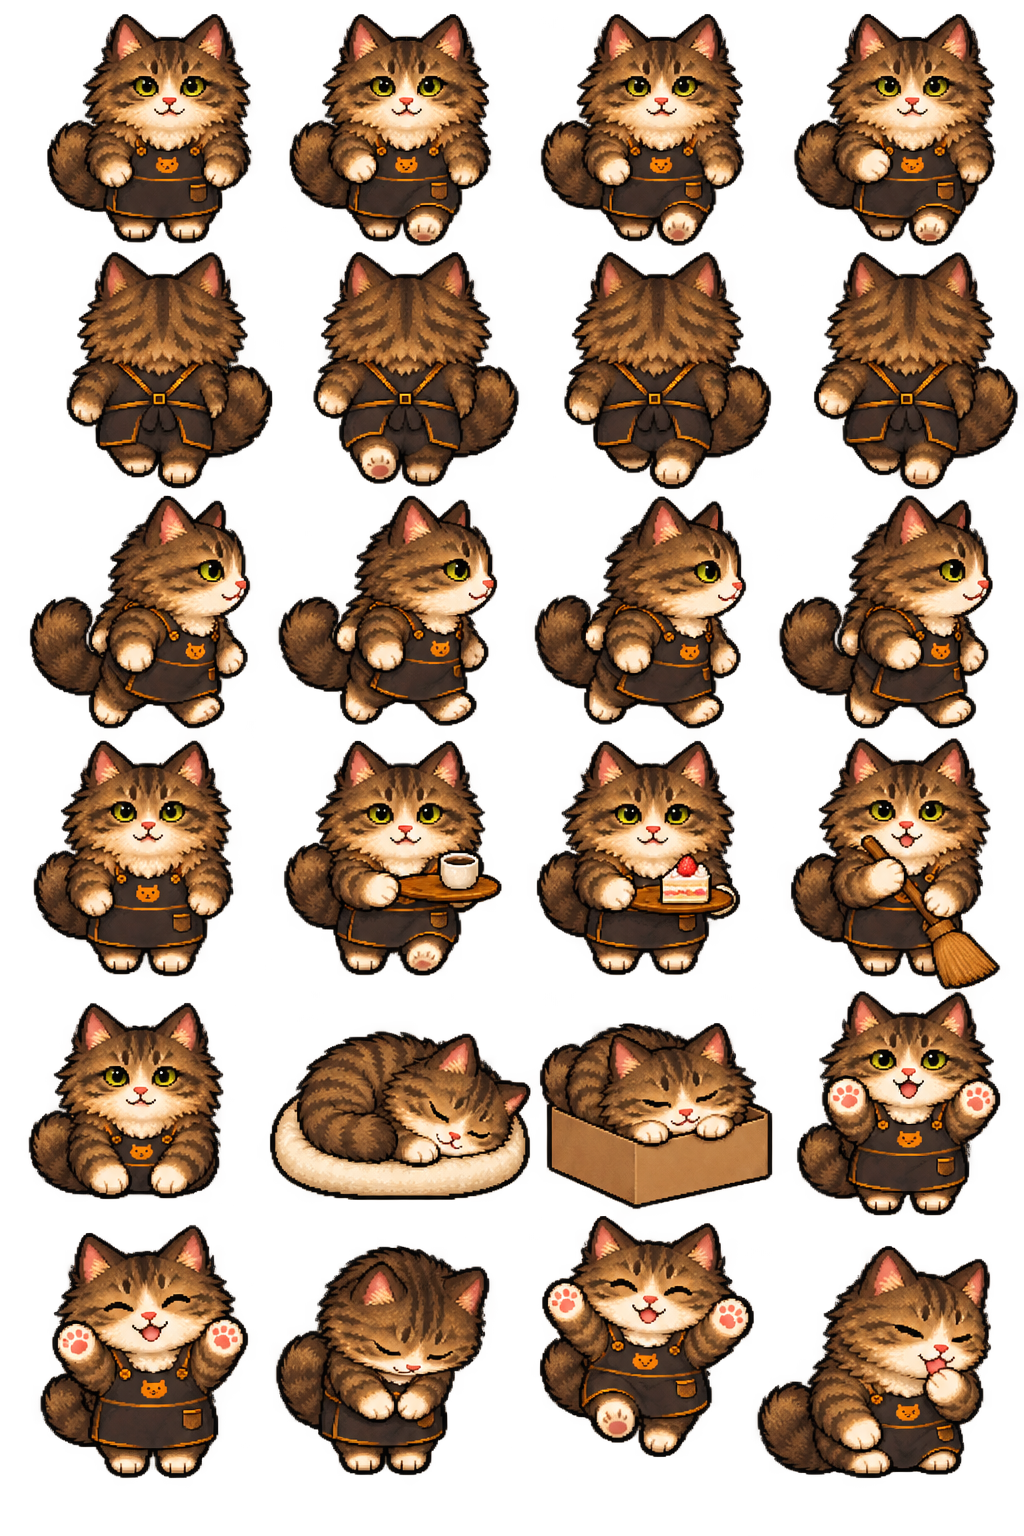
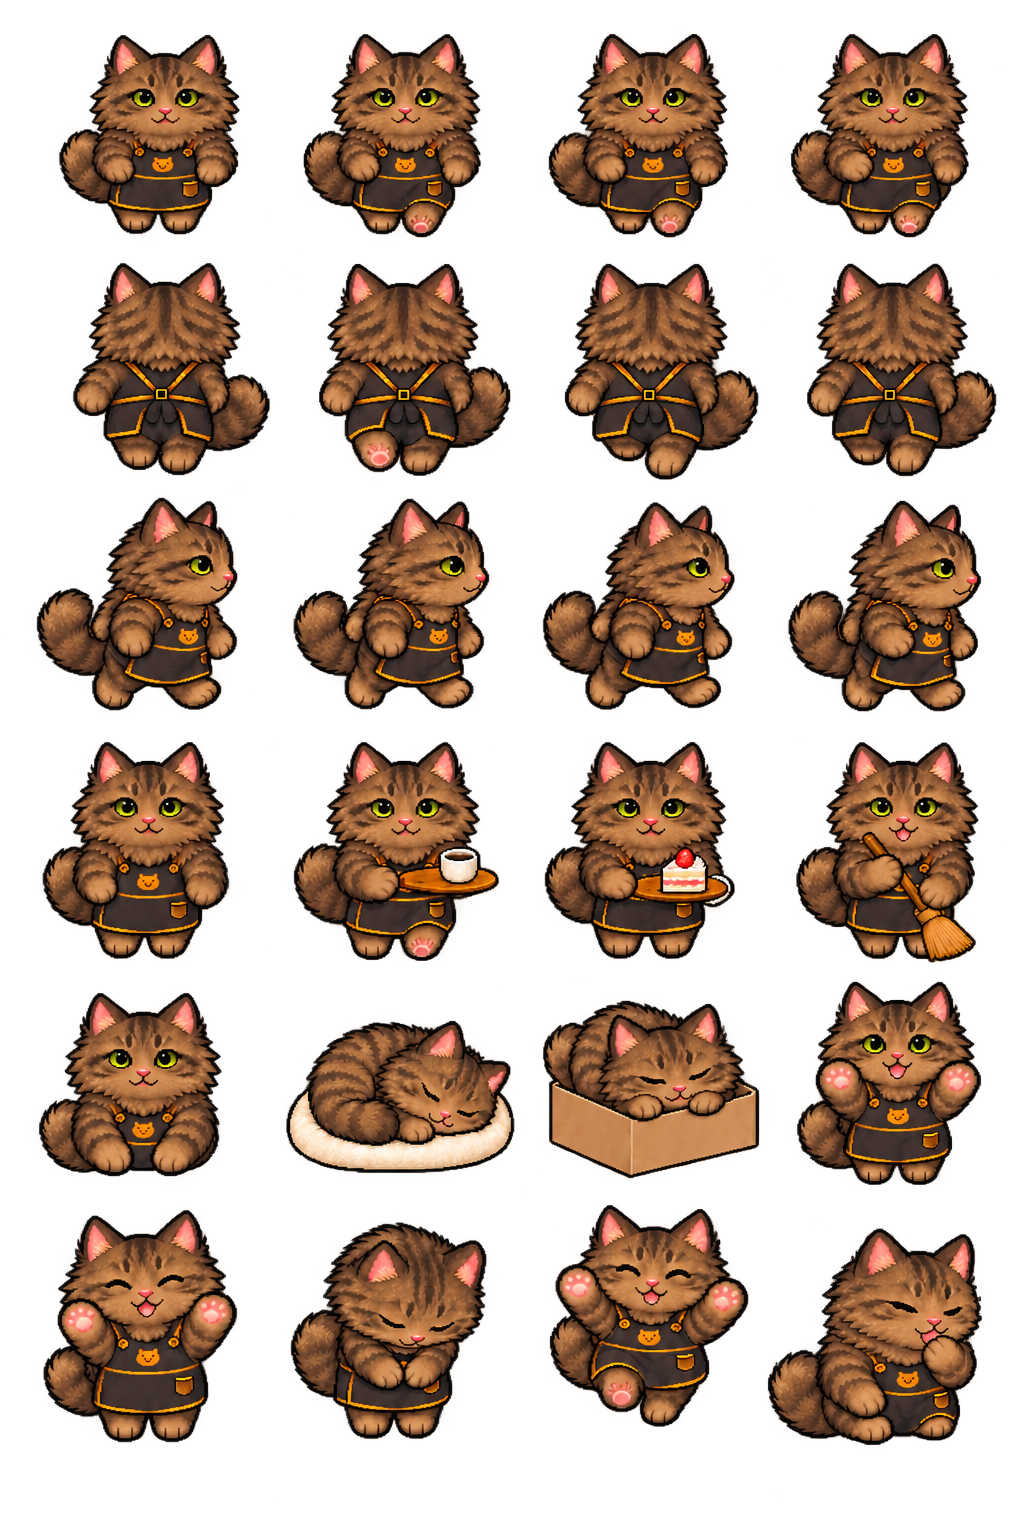
Correct Ponta to all-brown fur across every body motion

diff --git a/cat-motions.js b/cat-motions.js
@@ -1,7 +1,7 @@
 /* Coordinated Grio/Ponta artwork: every body pose shares one atlas and scale. */
 (function () {
   'use strict';
-  const meta = {"grio":{"frontWalk0":{"bounds":[77,47,158,209],"axis":166},"frontWalk1":{"bounds":[311,48,161,208],"axis":402.5},"frontWalk2":{"bounds":[540,47,160,209],"axis":630},"frontWalk3":{"bounds":[775,47,157,210],"axis":859.5},"backWalk0":{"bounds":[79,271,164,214],"axis":164.5},"backWalk1":{"bounds":[323,270,152,214],"axis":401.5},"backWalk2":{"bounds":[556,271,148,215],"axis":631.5},"backWalk3":{"bounds":[786,270,162,215],"axis":866},"walk0":{"bounds":[66,511,190,208],"axis":195.5},"walk1":{"bounds":[304,512,188,206],"axis":429.5},"walk2":{"bounds":[546,514,176,206],"axis":658.5},"walk3":{"bounds":[773,514,177,207],"axis":888.5},"idle":{"bounds":[66,751,164,217],"axis":156},"serve":{"bounds":[304,749,188,217],"axis":401},"coffee":{"bounds":[553,752,161,218],"axis":644},"clean":{"bounds":[778,751,185,227],"axis":870.5},"sit":{"bounds":[71,1008,159,181],"axis":157.5},"sleepbag":{"bounds":[270,1029,237,162],"axis":388},"box":{"bounds":[546,1020,202,178],"axis":646.5},"surprise":{"bounds":[789,998,170,213],"axis":877.5},"joy":{"bounds":[67,1228,175,233],"axis":158.5},"bow":{"bounds":[308,1253,179,208],"axis":410.5},"jump":{"bounds":[549,1219,180,227],"axis":637},"groom":{"bounds":[766,1259,185,202],"axis":881}},"ponta":{"frontWalk0":{"bounds":[45,12,208,233],"axis":166},"frontWalk1":{"bounds":[288,12,205,236],"axis":405},"frontWalk2":{"bounds":[539,12,207,236],"axis":659.5},"frontWalk3":{"bounds":[792,12,205,236],"axis":910},"backWalk0":{"bounds":[65,250,209,240],"axis":162},"backWalk1":{"bounds":[312,250,209,238],"axis":406},"backWalk2":{"bounds":[562,250,211,241],"axis":657},"backWalk3":{"bounds":[812,250,208,241],"axis":909},"walk0":{"bounds":[28,494,224,236],"axis":178.5},"walk1":{"bounds":[277,494,222,234],"axis":425},"walk2":{"bounds":[533,495,215,235],"axis":674.5},"walk3":{"bounds":[778,494,217,236],"axis":920.5},"idle":{"bounds":[32,739,203,239],"axis":146},"serve":{"bounds":[282,739,221,239],"axis":400},"cake":{"bounds":[535,739,207,238],"axis":647.5},"clean":{"bounds":[789,736,213,255],"axis":904},"sit":{"bounds":[27,1001,198,200],"axis":138},"sleepbag":{"bounds":[268,1029,264,173],"axis":399.5},"box":{"bounds":[538,1021,236,190],"axis":655.5},"surprise":{"bounds":[795,989,207,228],"axis":906},"joy":{"bounds":[39,1223,211,257],"axis":148.5},"bow":{"bounds":[274,1244,217,233],"axis":392},"jump":{"bounds":[538,1214,218,245],"axis":647},"groom":{"bounds":[756,1244,237,236],"axis":906.5}}};
+  const meta = {"grio":{"frontWalk0":{"bounds":[77,47,158,209],"axis":166},"frontWalk1":{"bounds":[311,48,161,208],"axis":402.5},"frontWalk2":{"bounds":[540,47,160,209],"axis":630},"frontWalk3":{"bounds":[775,47,157,210],"axis":859.5},"backWalk0":{"bounds":[79,271,164,214],"axis":164.5},"backWalk1":{"bounds":[323,270,152,214],"axis":401.5},"backWalk2":{"bounds":[556,271,148,215],"axis":631.5},"backWalk3":{"bounds":[786,270,162,215],"axis":866},"walk0":{"bounds":[66,511,190,208],"axis":195.5},"walk1":{"bounds":[304,512,188,206],"axis":429.5},"walk2":{"bounds":[546,514,176,206],"axis":658.5},"walk3":{"bounds":[773,514,177,207],"axis":888.5},"idle":{"bounds":[66,751,164,217],"axis":156},"serve":{"bounds":[304,749,188,217],"axis":401},"coffee":{"bounds":[553,752,161,218],"axis":644},"clean":{"bounds":[778,751,185,227],"axis":870.5},"sit":{"bounds":[71,1008,159,181],"axis":157.5},"sleepbag":{"bounds":[270,1029,237,162],"axis":388},"box":{"bounds":[546,1020,202,178],"axis":646.5},"surprise":{"bounds":[789,998,170,213],"axis":877.5},"joy":{"bounds":[67,1228,175,233],"axis":158.5},"bow":{"bounds":[308,1253,179,208],"axis":410.5},"jump":{"bounds":[549,1219,180,227],"axis":637},"groom":{"bounds":[766,1259,185,202],"axis":881}},"ponta":{"frontWalk0":{"bounds":[57,33,184,203],"axis":163.5},"frontWalk1":{"bounds":[302,32,181,207],"axis":405},"frontWalk2":{"bounds":[547,32,183,207],"axis":652},"frontWalk3":{"bounds":[789,32,182,207],"axis":892.5},"backWalk0":{"bounds":[71,261,201,216],"axis":164},"backWalk1":{"bounds":[317,262,195,216],"axis":402},"backWalk2":{"bounds":[563,262,197,220],"axis":650.5},"backWalk3":{"bounds":[805,262,193,216],"axis":892},"walk0":{"bounds":[35,496,204,216],"axis":171.5},"walk1":{"bounds":[292,497,199,214],"axis":422.5},"walk2":{"bounds":[541,500,195,212],"axis":669},"walk3":{"bounds":[787,499,196,214],"axis":914.5},"idle":{"bounds":[41,740,190,221],"axis":147},"serve":{"bounds":[292,740,209,223],"axis":402.5},"cake":{"bounds":[543,740,194,221],"axis":648},"clean":{"bounds":[794,740,186,224],"axis":901.5},"sit":{"bounds":[37,991,186,187],"axis":143},"sleepbag":{"bounds":[284,1019,232,156],"axis":399.5},"box":{"bounds":[541,999,220,181],"axis":650.5},"surprise":{"bounds":[795,980,188,207],"axis":895.5},"joy":{"bounds":[42,1208,197,236],"axis":145},"bow":{"bounds":[289,1221,199,220],"axis":404},"jump":{"bounds":[548,1203,202,226],"axis":651},"groom":{"bounds":[766,1227,218,220],"axis":901}}};
   const images = {}, cache = new Map(), width = 128, height = 144;
   const base = document.currentScript?.src || location.href;
   let ready = false;
@@ -9,7 +9,7 @@
     const image = images[pal] = new Image();
     image.onload = resolve;
     image.onerror = () => reject(new Error(pal + ' motion artwork could not be loaded'));
-    image.src = new URL('./cat-motions-' + pal + '.png?v=20261011-uniform', base).href;
+    image.src = new URL('./cat-motions-' + pal + '.png?v=' + (pal === 'ponta' ? '20261011-ponta-brown' : '20261011-uniform'), base).href;
   }))).then(() => {
     ready = true;
     const sprites = {};

diff --git a/animation-preview.html b/animation-preview.html
@@ -1,5 +1,5 @@
 <!doctype html><html lang="ja"><head><meta charset="utf-8"><meta name="viewport" content="width=device-width,initial-scale=1"><title>ぐりおとぽんた｜アニメーション確認</title><style>
-*{box-sizing:border-box}body{margin:0;background:#f7ecdb;color:#51372a;font-family:system-ui,sans-serif}header{padding:20px 16px;background:#7b4d32;color:white}h1{font-size:22px;margin:0}p{margin:8px 0}.wrap{max-width:1000px;margin:auto;padding:16px}.controls{display:flex;gap:12px;align-items:center;flex-wrap:wrap;padding:12px;background:#fff7ec;border-radius:14px;margin-bottom:16px}.grid{display:grid;grid-template-columns:repeat(auto-fit,minmax(160px,1fr));gap:12px}.card{background:#fffaf1;border:2px solid #dfb995;border-radius:16px;padding:12px;text-align:center}.card h2{font-size:16px;margin:0 0 8px}.stage{height:145px;display:flex;align-items:end;justify-content:center;background:linear-gradient(#f3dfc8 72%,#d1a47c 72%);border-radius:10px;overflow:hidden}.stage canvas{width:120px;height:130px;image-rendering:pixelated}label{font-weight:bold}input{accent-color:#a66b45}a{color:#a0552f}small{color:#826a57}</style></head><body><header><h1>🐾 ぐりお・ぽんた アニメーション検査室</h1><p>待機・配膳・調理・掃除・座る・睡眠・毛づくろいと、前後左右の歩行を同じデザインで揃えました。ゲームと同じ大きさで確認できます。会話の表情8種類も並べています。</p></header><main class="wrap"><div class="controls"><label><input type="checkbox" id="play" checked> 再生</label><label>速度 <input id="speed" type="range" min="1" max="12" value="6"></label><label><input id="flip" type="checkbox"> 左右反転</label><small>スプライトの欠け・顔・口・足元をチェック</small></div><div id="grid" class="grid"></div><p><a href="./">← ゲームに戻る</a></p></main><script src="./cat-motions.js?v=20261011-uniform"></script><script src="./character-art.js?v=20261011-uniform"></script><script src="./rear-walk.js?v=20261011-uniform"></script><script>
+*{box-sizing:border-box}body{margin:0;background:#f7ecdb;color:#51372a;font-family:system-ui,sans-serif}header{padding:20px 16px;background:#7b4d32;color:white}h1{font-size:22px;margin:0}p{margin:8px 0}.wrap{max-width:1000px;margin:auto;padding:16px}.controls{display:flex;gap:12px;align-items:center;flex-wrap:wrap;padding:12px;background:#fff7ec;border-radius:14px;margin-bottom:16px}.grid{display:grid;grid-template-columns:repeat(auto-fit,minmax(160px,1fr));gap:12px}.card{background:#fffaf1;border:2px solid #dfb995;border-radius:16px;padding:12px;text-align:center}.card h2{font-size:16px;margin:0 0 8px}.stage{height:145px;display:flex;align-items:end;justify-content:center;background:linear-gradient(#f3dfc8 72%,#d1a47c 72%);border-radius:10px;overflow:hidden}.stage canvas{width:120px;height:130px;image-rendering:pixelated}label{font-weight:bold}input{accent-color:#a66b45}a{color:#a0552f}small{color:#826a57}</style></head><body><header><h1>🐾 ぐりお・ぽんた アニメーション検査室</h1><p>待機・配膳・調理・掃除・座る・睡眠・毛づくろいと、前後左右の歩行を同じデザインで揃えました。ゲームと同じ大きさで確認できます。会話の表情8種類も並べています。</p></header><main class="wrap"><div class="controls"><label><input type="checkbox" id="play" checked> 再生</label><label>速度 <input id="speed" type="range" min="1" max="12" value="6"></label><label><input id="flip" type="checkbox"> 左右反転</label><small>スプライトの欠け・顔・口・足元をチェック</small></div><div id="grid" class="grid"></div><p><a href="./">← ゲームに戻る</a></p></main><script src="./cat-motions.js?v=20261011-ponta-brown"></script><script src="./character-art.js?v=20261011-uniform"></script><script src="./rear-walk.js?v=20261011-uniform"></script><script>
 const items=[];
 const names={idle:'待機',sit:'座る',jump:'ジャンプ／喜ぶ',bow:'お辞儀／接客',serve:'配膳',coffee:'調理',cake:'ケーキ',clean:'掃除',surprise:'驚く',sleepbag:'睡眠',box:'段ボール',groom:'毛づくろい',joy:'喜ぶ',run:'走る',f_normal:'通常',f_happy:'笑顔',f_kiri:'にっこり',f_surprise:'驚き',f_sleepy:'眠い',f_angry:'怒る',f_tehe:'照れる',f_amae:'甘える'};
 let tick=0,last=0;

diff --git a/index.html b/index.html
@@ -307,7 +307,7 @@ button small { display: block; font-size: 11px; color: #e6d3b8; white-space: now
 <div id="modal" hidden><div class="panel" id="panel"></div></div>
 <script src="./kitchen-art.js?v=20261012-walk"></script>
 <script src="./guest-art.js?v=20261012-walk"></script>
-<script src="./cat-motions.js?v=20261011-uniform"></script><script src="./rear-walk.js?v=20261011-uniform"></script>
+<script src="./cat-motions.js?v=20261011-ponta-brown"></script><script src="./rear-walk.js?v=20261011-uniform"></script>
 <script src="./cafe-art.js?v=20261012-walk"></script>
 <script src="./touch-controls.js?v=20261011-tap-guard"></script>
 <script src="./character-art.js?v=20261011-uniform"></script>

diff --git a/cat-facing-preview.html b/cat-facing-preview.html
@@ -27,7 +27,7 @@ figcaption{padding-top:8px;font-size:14px}
 <p><a href="./">ゲームへ戻る</a> · <a href="./animation-preview.html">ぐりお・ぽんたの全モーション</a></p>
 <p id="status" role="status">素材を読み込んでいます…</p>
 <div class="grid" id="cats"></div>
-<script src="./cat-motions.js?v=20261011-uniform"></script><script src="./character-art.js?v=20261011-uniform"></script>
+<script src="./cat-motions.js?v=20261011-ponta-brown"></script><script src="./character-art.js?v=20261011-uniform"></script>
 <script src="./rear-walk.js?v=20261011-uniform"></script>
 <script>
 (async function(){

diff --git a/README.md b/README.md
@@ -45,7 +45,7 @@
 
 ## キャラクター素材と表示検証
 
-ぐりおとぽんたの全身素材は `cat-motions-grio.png` と `cat-motions-ponta.png`（各1024×1536、各24コマ）に揃えています。前・後ろ・右向きの歩行を各4コマ、待機、配膳、コーヒー／ケーキ、掃除、座る、睡眠、箱での睡眠、驚く、喜ぶ、お辞儀、ジャンプ、毛づくろいを同じキャラクター見本から描き直しました。ぐりおは短毛のキジ白、ぽんたは長毛の茶色キジトラ。黒いエプロン、金色の縁、オレンジの猫模様を共通にしています。
+ぐりおとぽんたの全身素材は `cat-motions-grio.png` と `cat-motions-ponta.png`（各1024×1536、各24コマ）に揃えています。前・後ろ・右向きの歩行を各4コマ、待機、配膳、コーヒー／ケーキ、掃除、座る、睡眠、箱での睡眠、驚く、喜ぶ、お辞儀、ジャンプ、毛づくろいを同じキャラクター見本から描き直しました。ぐりおは短毛のキジ白、ぽんたは長毛の茶色キジトラ。ぽんたに白い毛はなく、口元・あご・胸・手足まで茶色で揃えています。黒いエプロン、金色の縁、オレンジの猫模様を共通にしています。
 
 `cat-motions.js` はキャラクターごとに全ポーズ共通の倍率を求め、128×144のフレームに足元を揃えて配置します。座る・眠る姿を立ち姿と同じ高さへ引き伸ばしません。左右の移動には右向き歩行の左右反転を使います。走る確認用の姿は横歩行の足上げコマを共用します。会話の顔8種類は `chars.webp` の素材を保持し、ぐりおの通常顔の口元補修も保持します。`character-detail.js` は元の見本として残していますがゲームでは読み込みません。
 
